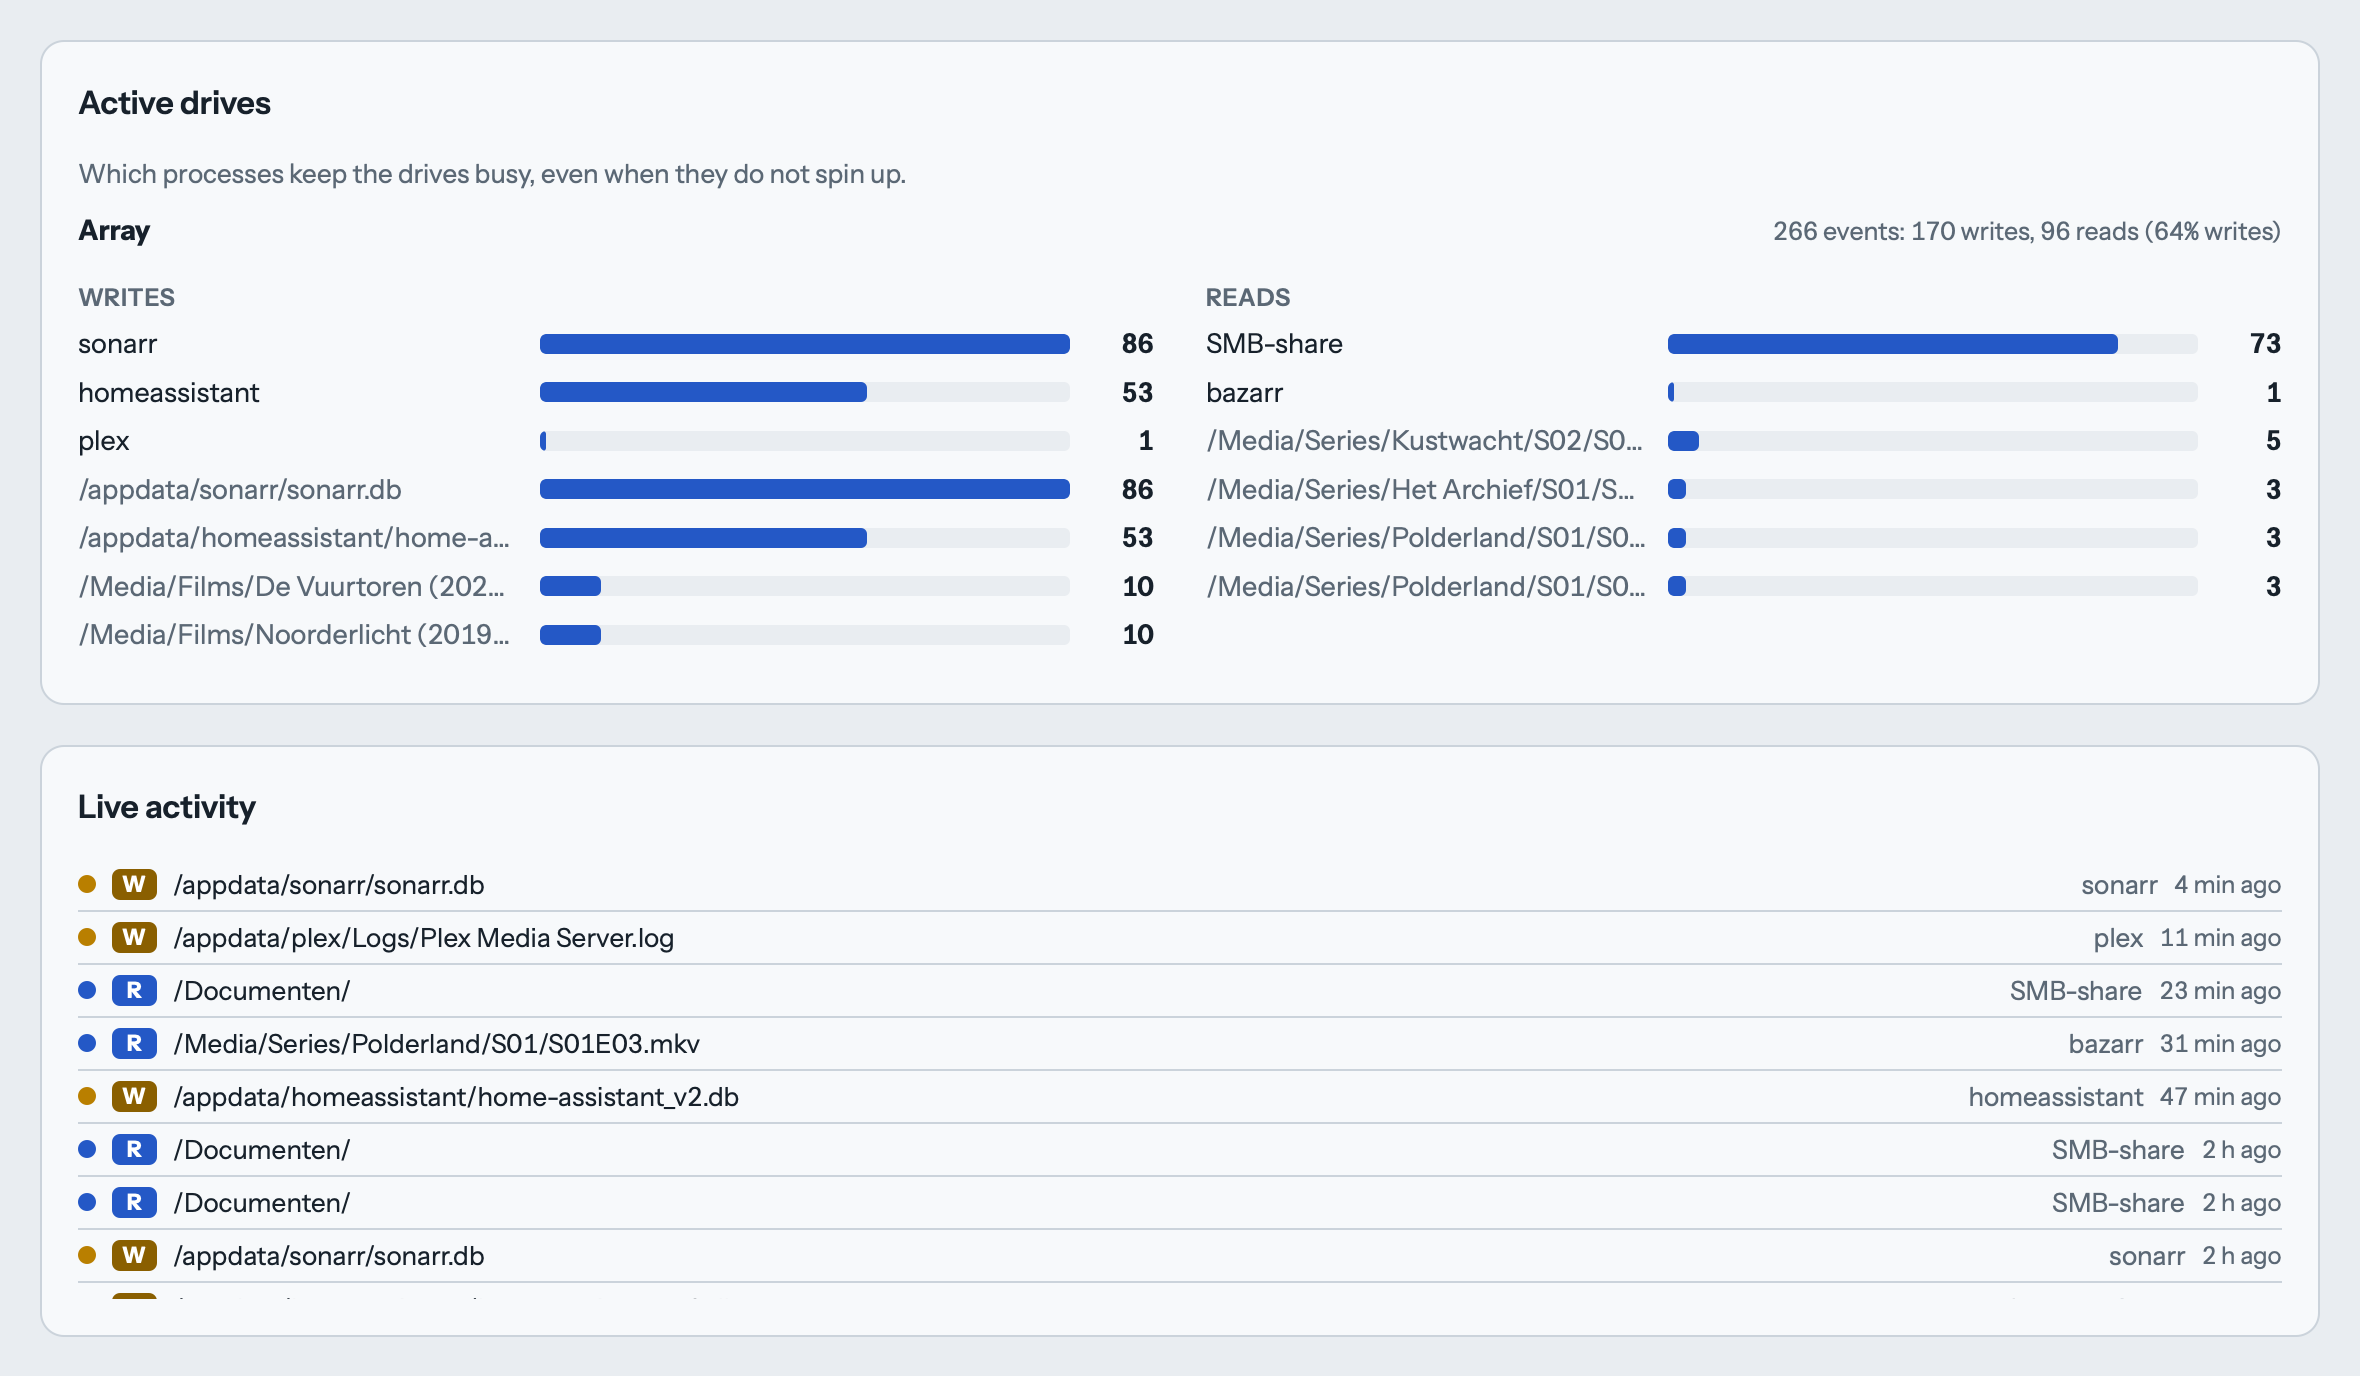
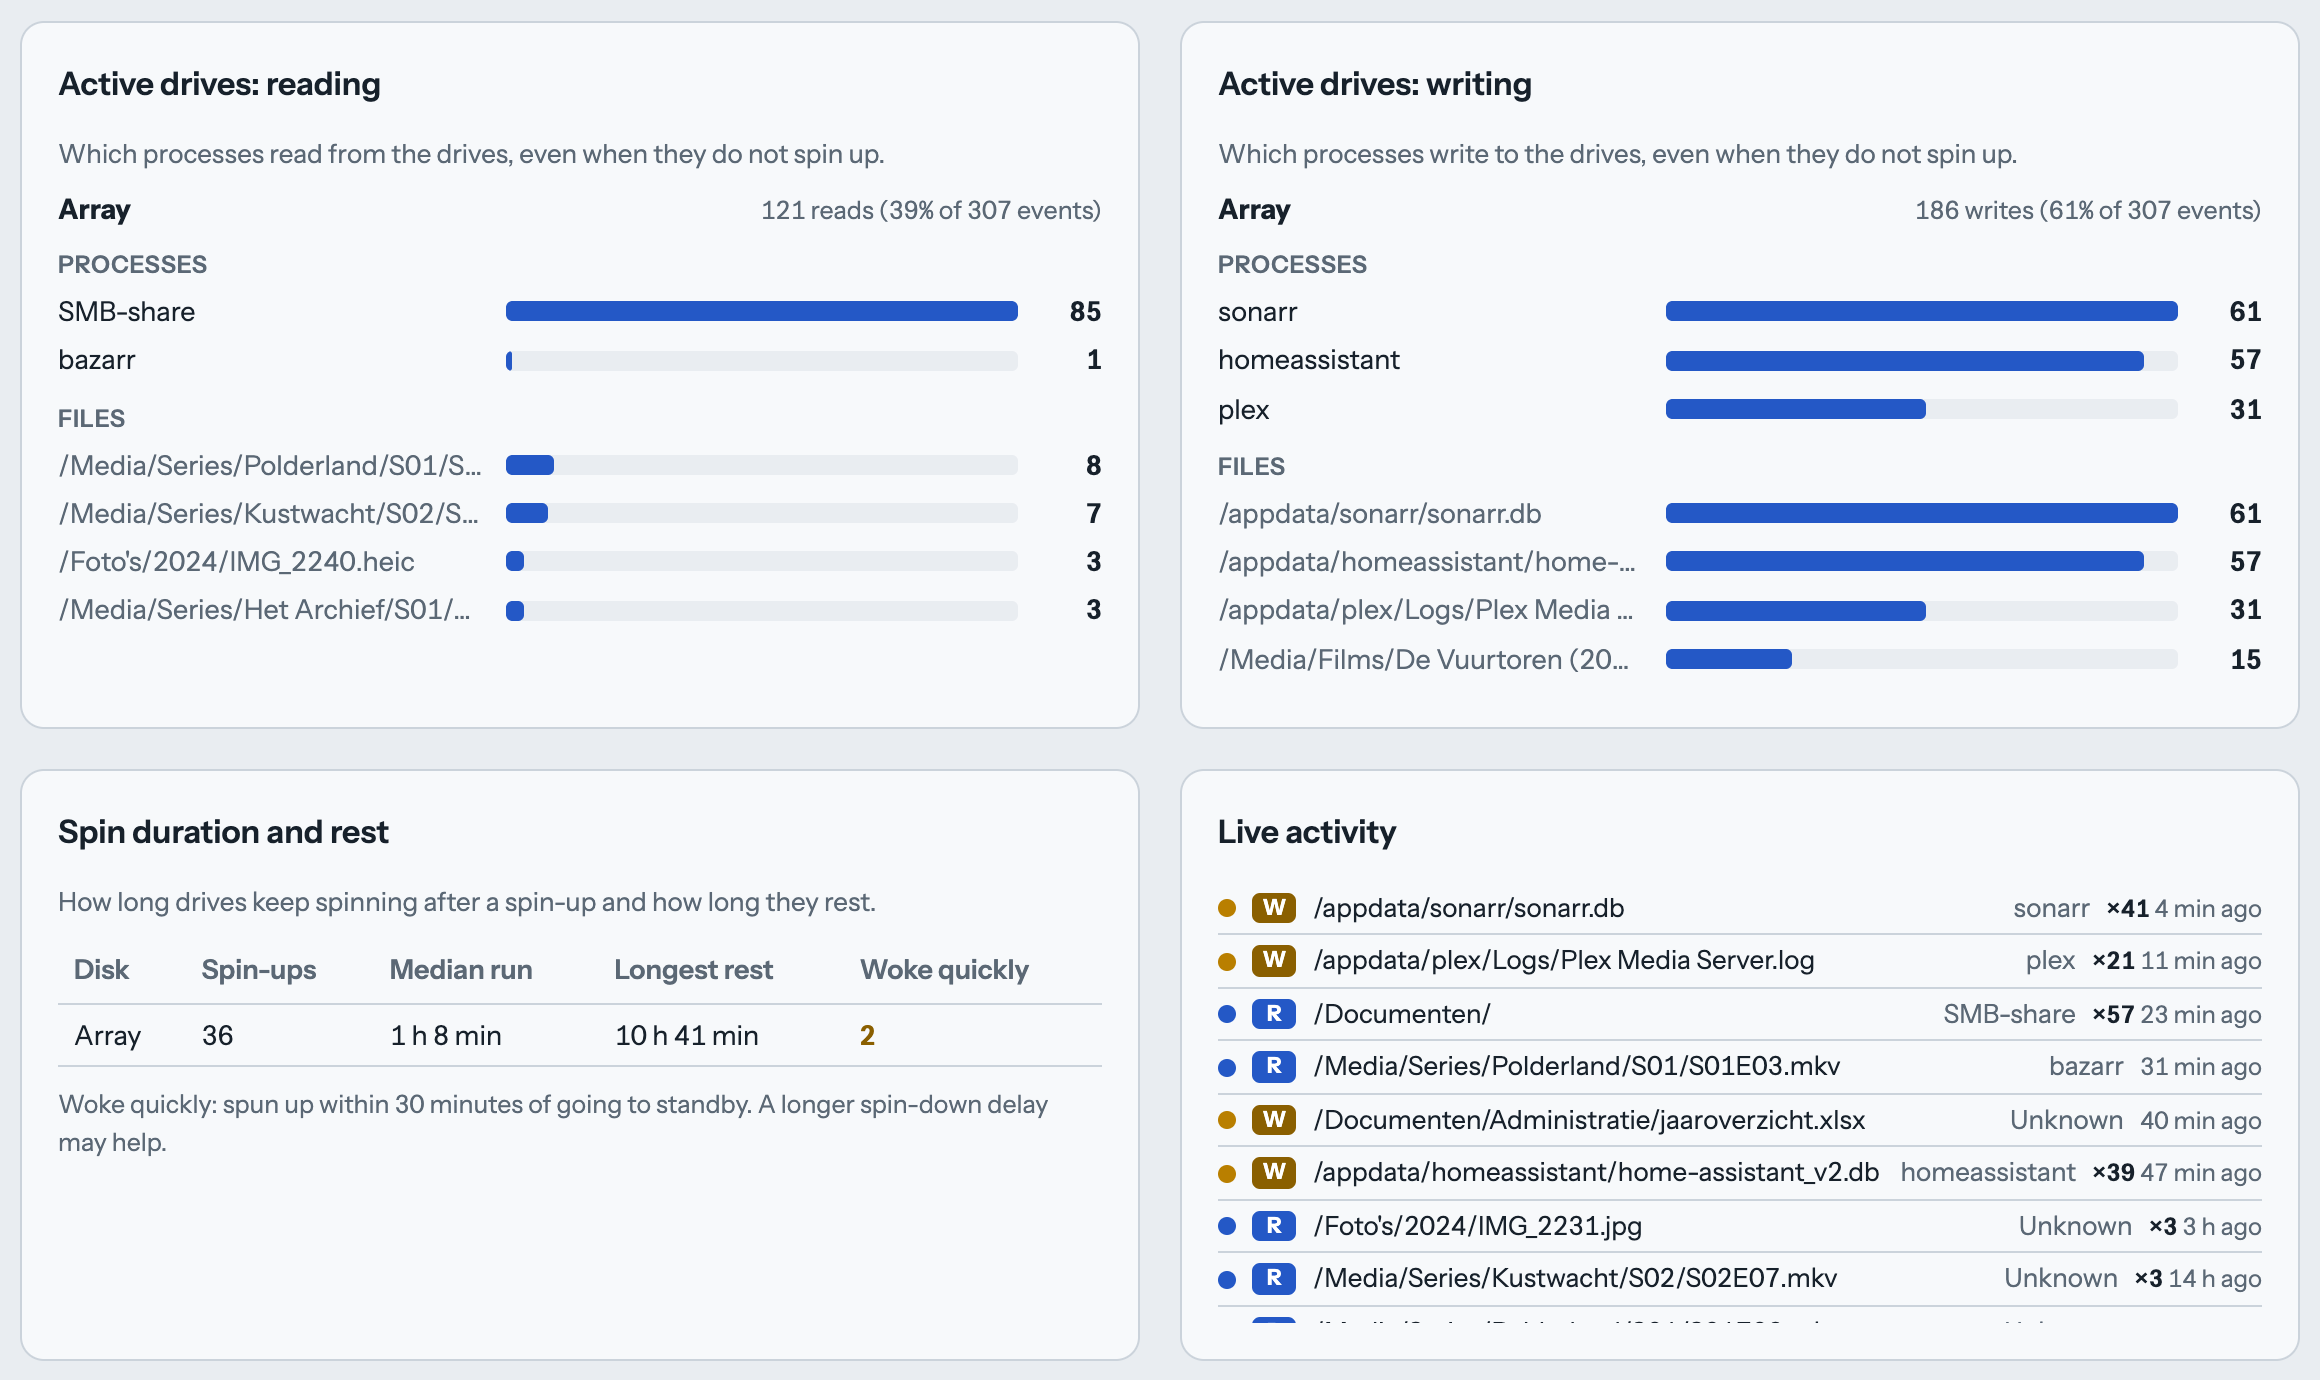
Refresh README screenshots and keep them up to date
New screenshots of the current dashboard (sample data, 7 days, light and
dark), made with the new scripts/screenshots.mjs (Playwright, not in
package.json). CLAUDE.md now requires the screenshots and their alt texts to
match the UI in the same commit as any visible change. The sample data
covers 15 days, so the week view can compare with the week before.

Changed region(s): [[0.0, 0.0312, 0.9931, 0.5], [0.4966, 0.5938, 0.9931, 0.9688], [0.0, 0.5625, 0.4655, 0.9375]]

diff --git a/app/static/index.html b/app/static/index.html
@@ -1965,7 +1965,7 @@ addEventListener('resize', () => {
 function demoLog(){
   const lines = [];
   const add = (t, l) => lines.push({t, l:`${Math.floor(t/1000)},${l}`});
-  const end = Date.now(), start = end - 6*DAY;
+  const end = Date.now(), start = end - 15*DAY;   // ruim twee weken: ook de weekweergave heeft een vorige week
   const disks = {sdb:['parity',.1], sdc:['disk1',1], sdd:['disk2',.8], sde:['disk3',.4], sdf:['disk4',.15], sdg:['disk5',.6]};
   let seed = 7; const rnd = () => (seed = (seed*16807) % 2147483647) / 2147483647;
   const pick = arr => arr[Math.floor(rnd()*arr.length)];

diff --git a/README.md b/README.md
@@ -4,7 +4,7 @@ See when your hard drives spin up and down, and **why**.
 
 <picture>
   <source media="(prefers-color-scheme: dark)" srcset="docs/images/screenshot-dark.png">
-  <img alt="Spin Dashboard: a timeline per lane with every spin-up, spin-ups per hour of day, what wakes the drives, the active drives, live activity and a table of events with the cause of each spin-up" src="docs/images/screenshot-light.png">
+  <img alt="Spin Dashboard: key figures compared with the previous week, a timeline per lane with every spin-up, spin-ups per day and per hour of day, what wakes the drives, spin-ups and activity by source, active drives for reading and writing, spin duration and rest, live activity and a table of events with the cause of each spin-up" src="docs/images/screenshot-light.png">
 </picture>
 
 - **Key figures** at the top: spin-ups, spinning hours, how much of the time all drives slept and the longest full rest, each compared with the previous period, so you see right away whether a change helped.
@@ -27,7 +27,7 @@ See when your hard drives spin up and down, and **why**.
 
 <picture>
   <source media="(prefers-color-scheme: dark)" srcset="docs/images/active-drives-live-activity.png">
-  <img alt="Active drives: per drive the top write and read sources and files, and a live activity feed of the most recent file events" src="docs/images/active-drives-live-activity-light.png">
+  <img alt="Active drives for reading and writing with per drive the top processes and files, spin duration and rest per drive, and a live activity feed of the most recent file events" src="docs/images/active-drives-live-activity-light.png">
 </picture>
 
 ## Install

diff --git a/CLAUDE.md b/CLAUDE.md
@@ -16,6 +16,7 @@ Unraid server spin up and **why**: which file was opened and by which process
 | `app/static/index.html` | The dashboard. A single file, vanilla JS, no build step. |
 | `tests/` | `pytest` for the backend, `tests/js/` for the frontend (node:test + jsdom). |
 | `unraid/` | Community Applications template and icon. |
+| `scripts/screenshots.mjs` | Recreates the README screenshots from the sample data (Playwright, not in `package.json`). |
 | `docs/` | Architecture, data formats, development, publishing, design decisions. |
 | `todo.md` / `completed.md` | Open and finished work. Update them when you pick something up or finish it. |
 
@@ -55,6 +56,10 @@ then builds the image.
   Times in epoch seconds; the day is the container's local date. The frontend shows local time.
 - Small, focused changes. New logic gets a test.
 - Frontend: no frameworks, no external assets except Google Fonts with a fallback.
+- **README screenshots must always match the current dashboard.** Any change that is visible in
+  the UI (cards added, removed, renamed or rearranged, new layout) refreshes the screenshots in
+  `docs/images/` and their alt texts in the README in the same commit, with
+  `node scripts/screenshots.mjs` (see `docs/development.md`).
 
 ## Pitfalls we already ran into
 

diff --git a/docs/development.md b/docs/development.md
@@ -55,6 +55,22 @@ shown under the field.
 A pattern with a leading `/` matches the full path and its `/mnt/user/...` form; without it, the path inside
 the share. Hidden activity is filtered out after loading (`data.allAct` → `data.act`), also for live events.
 
+## README screenshots
+
+The screenshots in `docs/images/` must always match the current dashboard (see `CLAUDE.md`). They are
+made from the sample data (`?demo`, English, the 7-day view) at 1200 px wide and 2× scale, in light and
+dark, with `scripts/screenshots.mjs`:
+
+```bash
+npm install --no-save playwright && npx playwright install chromium
+node scripts/screenshots.mjs
+```
+
+It writes `screenshot-light.png` / `screenshot-dark.png` (the whole page) and
+`active-drives-live-activity-light.png` / `active-drives-live-activity.png` (the reading, writing, spin
+duration and live activity cards). Playwright is deliberately not in `package.json`, so CI and a normal
+`npm install` do not need it. Check the new images before committing and update the alt texts in the README.
+
 ## Testing on Unraid
 
 ```bash

diff --git a/completed.md b/completed.md
@@ -2,6 +2,11 @@
 
 Newest first.
 
+## 2026-10-18: README screenshots up to date
+- New screenshots of the current dashboard (sample data, 7 days, light and dark), including Key figures, Spin-ups per day, By source and Spin duration and rest; the detail screenshot now shows the reading/writing cards, Spin duration and rest and Live activity
+- `scripts/screenshots.mjs` recreates them with Playwright; `CLAUDE.md` now requires the screenshots to match the UI in the same commit as any visible change
+- The sample data covers 15 days instead of 6, so the week view can compare with the previous week
+
 ## 2026-10-18: card review
 - New card By source: containers and processes ranked by the spin-ups they caused, with reads, writes and the drives they touched; "By whom" moved here from What wakes the drives
 - New card Spin duration and rest: per lane the median run after a spin-up, the longest rest and "woke quickly" (spun up within 30 minutes of going to standby)
